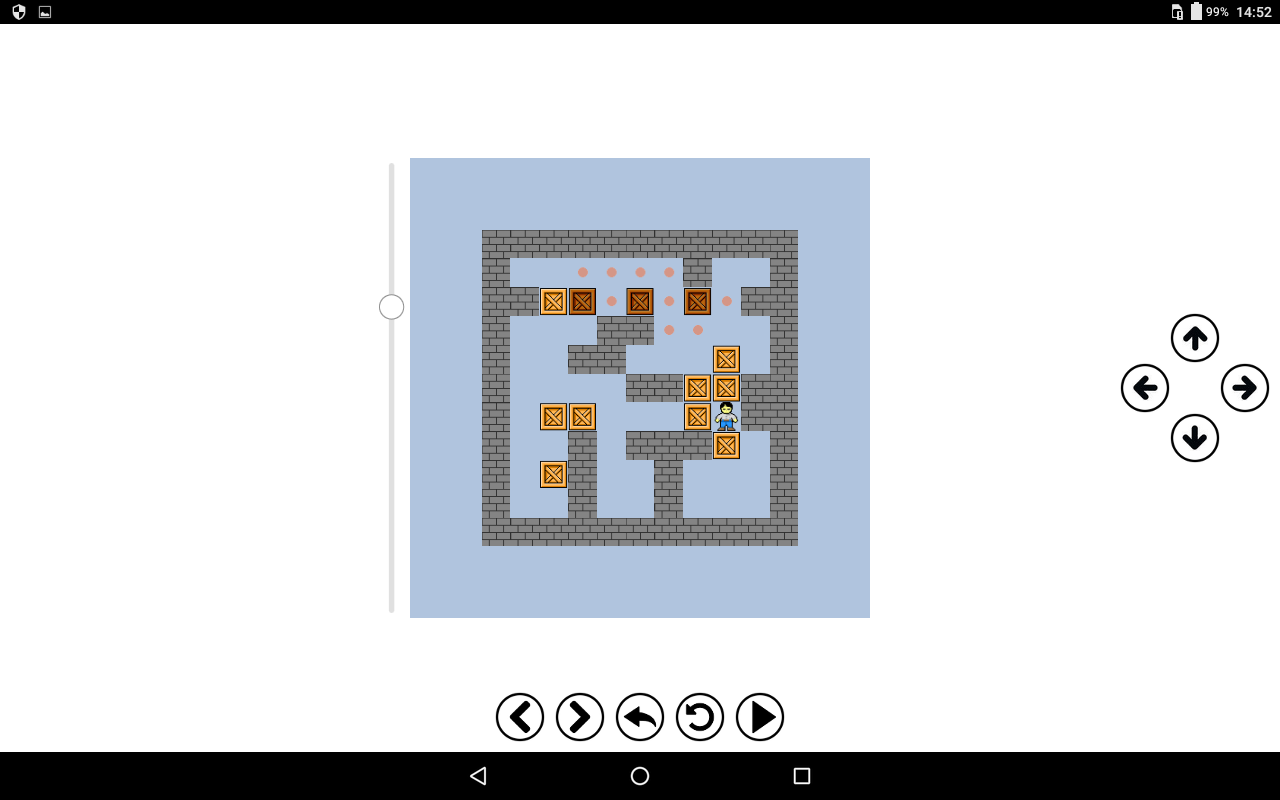
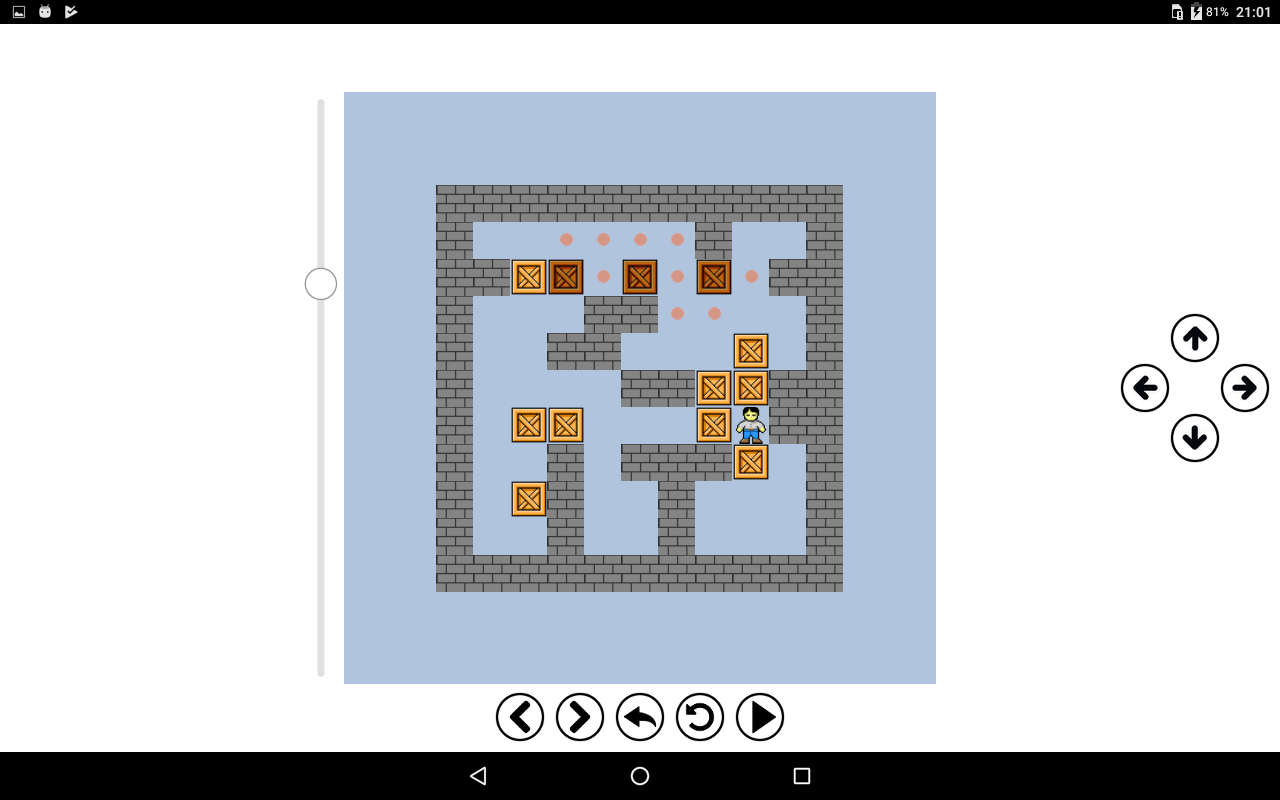
review of 'sokoban' example

Changed region(s): [[0.25, 0.0938, 0.75, 0.875], [0.9375, 0.0, 1.0, 0.0312], [0.0, 0.0, 0.0625, 0.0312]]

diff --git a/examples/sokoban/qml/sokoban.qml b/examples/sokoban/qml/sokoban.qml
@@ -1,5 +1,6 @@
 import QtQuick 2.6
 import QtQuick.Controls 2.0
+import QtQuick.Window 2.2
 import "ext/" as Ext
 import EQL5 1.0
 
@@ -7,7 +8,9 @@ Rectangle {
     width: 900; height: 600
 
     Row {
-        scale: 0.9
+        // adapt board scale to screen size, depending on landscape/portrait
+        scale: (Screen.height < Screen.width) ? ((Screen.height - 2 * buttons.height - 20) / board.height)
+                                              : ((Screen.width - 2 * arrows.width - level.width - 20) / board.width)
         anchors.centerIn: parent
 
         Slider {
@@ -66,6 +69,7 @@ Rectangle {
 
     // container for arrow buttons
     Item {
+        id: arrows
         width: up.width * 3
         height: up.height * 3
         anchors.margins: 10

diff --git a/examples/sokoban/qml/ext/Button.qml b/examples/sokoban/qml/ext/Button.qml
@@ -1,11 +1,11 @@
 import QtQuick 2.0
 
 Image {
-    signal clicked()
+    signal pressed()
 
     MouseArea {
         anchors.fill: parent
-        onClicked: { parent.clicked() }
+        onPressed: { parent.pressed() }
     }
 }
 
